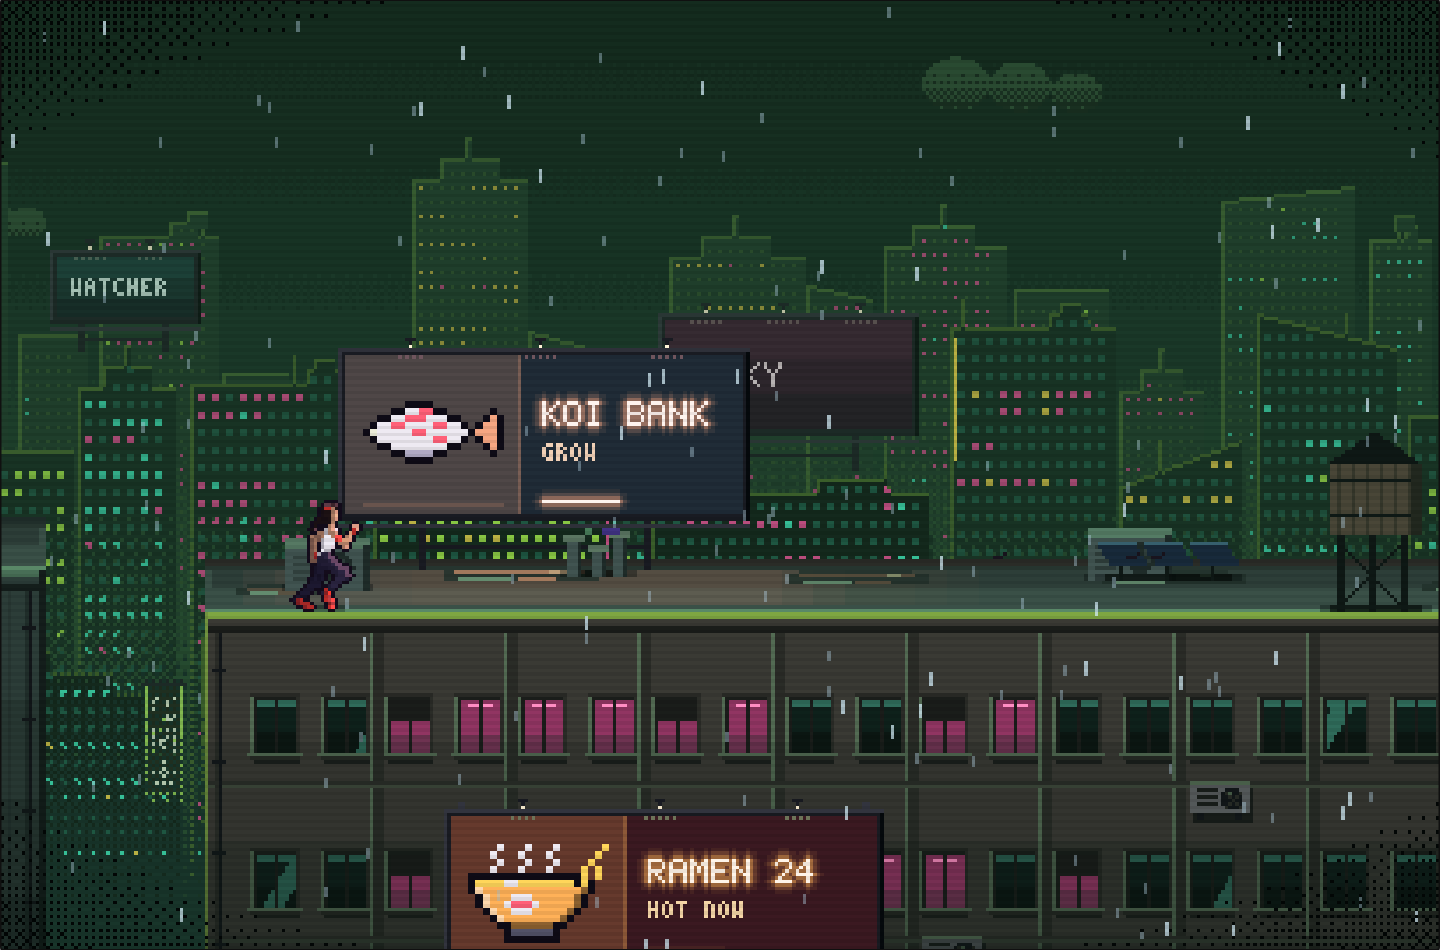
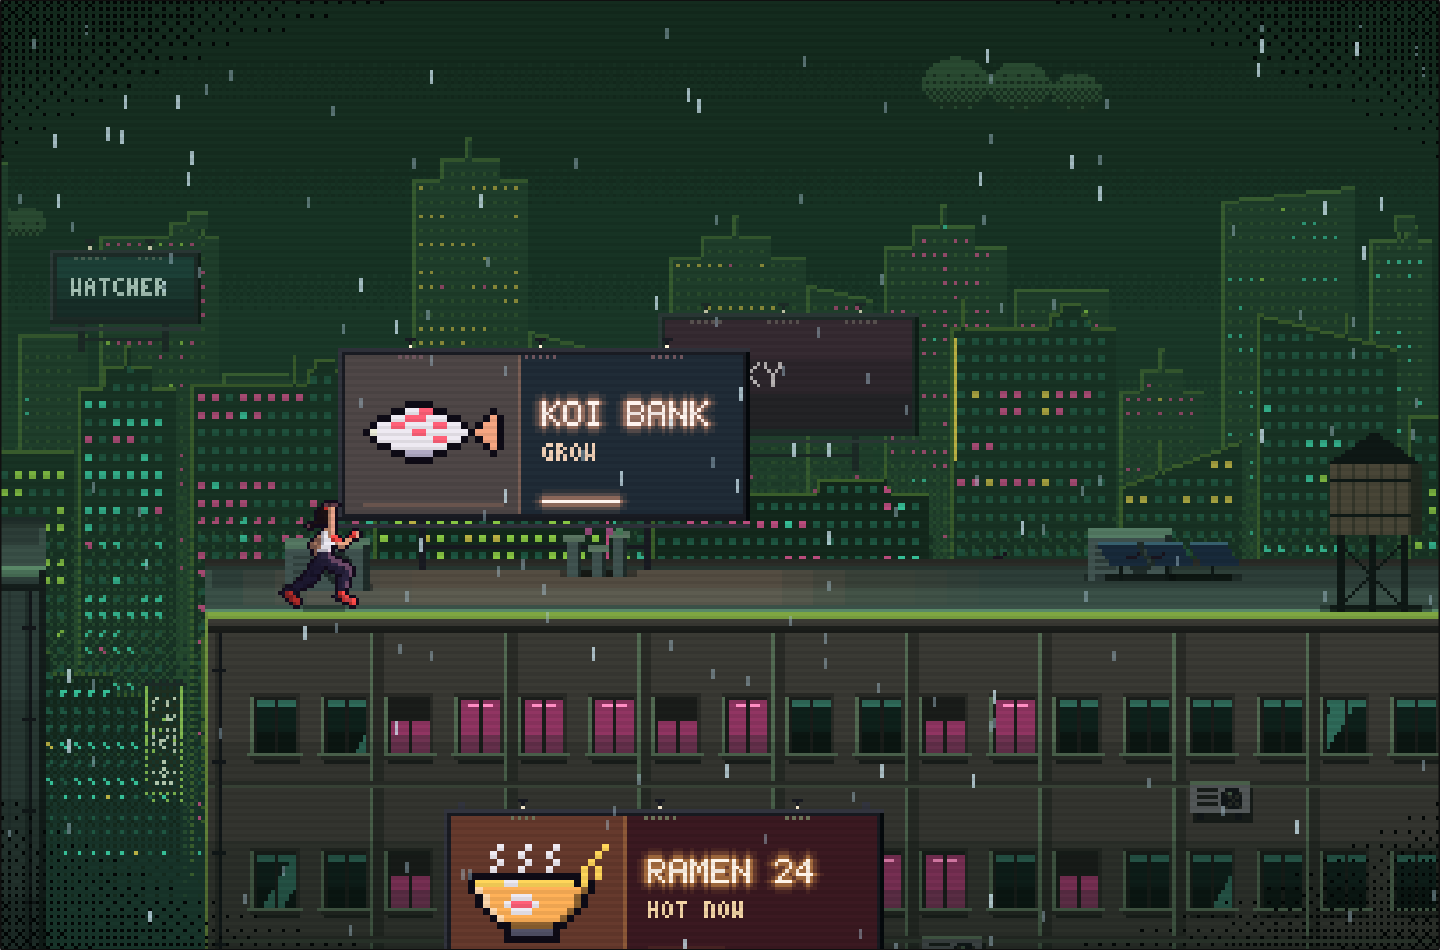
Make puddles sparse and add occasional roof rain impacts

diff --git a/src/pixel/roof.js b/src/pixel/roof.js
@@ -1,16 +1,18 @@
 // Roof lighting stays in native pixels. Stable patches follow the building,
-// while only the small rain rings move; the front edge remains unobscured.
+// with occasional falling drops and tiny impacts; the front edge stays clear.
 import { css, hash, mix } from './pixels.js'
 
 export function roofPuddles(seed, w, depth) {
   const patches = []
   if (depth < 7) return patches
-  for (let x = 9, i = 0; x < w - 14; i++) {
-    const width = Math.min(w - x - 7, 16 + Math.floor(hash(seed, i, 2) * 30))
-    if (width < 10) break
-    const h = Math.min(depth - 6, 2 + Math.floor(hash(seed, i, 4) * 2))
-    patches.push({ x, w: width, back: 3 + Math.floor(hash(seed, i, 3) * Math.max(1, depth - h - 5)), h, phase: hash(seed, i, 5) })
-    x += width + 24 + Math.floor(hash(seed, i, 6) * 32)
+  // Most roof sections stay empty; a rare patch sits away from the edges.
+  for (let i = 0; i < Math.ceil(w / 210); i++) {
+    if (hash(seed, i, 21) > 0.3) continue
+    const x = 12 + i * 210 + Math.floor(hash(seed, i, 22) * 100)
+    const width = Math.min(w - x - 12, 20 + Math.floor(hash(seed, i, 23) * 16))
+    if (width < 16) continue
+    const h = Math.min(depth - 6, 3 + Math.floor(hash(seed, i, 24) * 2))
+    patches.push({ x, w: width, back: 3 + Math.floor(hash(seed, i, 25) * Math.max(1, depth - h - 5)), h })
   }
   return patches
 }
@@ -27,31 +29,57 @@ export function drawRoofSurface(ctx, { x, y, w, depth, seed, pal, wet = 0, rain 
       ctx.fillRect(Math.round(light.x - light.w / 2 - band * 9), y - depth + 3, Math.round(light.w + band * 18), depth - 5)
     }
   }
-  if (wet > 0.05) for (const [i, q] of roofPuddles(seed, w, depth).entries()) {
+  if (wet > 0.05) for (const q of roofPuddles(seed, w, depth)) {
     const px = x + q.x, py = y - q.back - q.h
-    ctx.fillStyle = css(mix(pal.roof, pal.shadow, 0.45), wet * 0.85)
-    ctx.fillRect(px + 3, py - 1, q.w - 8, 1)
-    ctx.fillRect(px, py, q.w, q.h)
+    // Stepped rounded edges, a cool shallow body, and a short broken glint.
+    ctx.fillStyle = css(mix(pal.roof, pal.shadow, 0.25), wet * 0.75)
+    ctx.fillRect(px + 5, py, q.w - 10, 1)
+    ctx.fillRect(px + 2, py + 1, q.w - 4, Math.max(1, q.h - 2))
+    ctx.fillRect(px + 6, py + q.h - 1, q.w - 13, 1)
     const sheen = mix(pal.rim, [126, 178, 197], 0.65)
-    ctx.fillStyle = css(mix(pal.roof, sheen, 0.65), wet * 0.8)
-    ctx.fillRect(px + 4, py + q.h - 1, Math.floor(q.w * 0.35), 1)
-    ctx.fillRect(px + Math.floor(q.w * 0.7), py, Math.max(2, Math.floor(q.w * 0.12)), 1)
+    ctx.fillStyle = css(mix(pal.roof, sheen, 0.55), wet * 0.65)
+    ctx.fillRect(px + 6, py + q.h - 1, Math.floor(q.w * 0.2), 1)
+    ctx.fillRect(px + Math.floor(q.w * 0.7), py + 1, 2, 1)
     for (const light of lights) {
       const strength = Math.max(0, 1 - Math.abs(px + q.w / 2 - light.x) / (light.w / 2 + 65))
       if (!strength) continue
-      ctx.fillStyle = css(light.color, wet * strength * light.strength * pal.night * 0.65)
-      ctx.fillRect(px + 3, py, q.w - 7, 1)
-      ctx.fillRect(px + Math.floor(q.w * 0.48), py + q.h - 1, Math.floor(q.w * 0.25), 1)
-    }
-    // One short expanding ring per patch, with a quiet interval between hits.
-    const phase = (time * 0.65 + q.phase) % 1
-    if (rain > 0.15 && phase < 0.22) {
-      const r = 1 + Math.floor(phase * 12), cx = px + 5 + Math.floor(hash(seed, i, 9) * (q.w - 10))
-      ctx.fillStyle = css(pal.light, rain * 0.3 * (1 - phase / 0.22))
-      ctx.fillRect(cx - r, py + 1, 1, 1); ctx.fillRect(cx + r, py + 1, 1, 1)
+      ctx.fillStyle = css(light.color, wet * strength * light.strength * pal.night * 0.55)
+      ctx.fillRect(px + 7, py + 1, Math.floor(q.w * 0.28), 1)
+      ctx.fillRect(px + Math.floor(q.w * 0.65), py + q.h - 1, 3, 1)
     }
   }
   ctx.restore()
+  // Sparse drops reach the actual roof plane, then kick up two tiny droplets.
+  // Draw behind the equipment and runner, independently of puddle placement.
+  for (const hit of roofRainHits(seed, w, depth, time, rain)) {
+    const hx = x + hit.x, hy = y - hit.back
+    ctx.fillStyle = css(mix(pal.light, [171, 213, 229], 0.75), 0.65)
+    if (hit.t < 0.18) {
+      const fall = 1 - hit.t / 0.18
+      ctx.fillRect(Math.round(hx + fall * 3), Math.round(hy - fall * 16) - 2, 1, 3)
+    } else {
+      const t = (hit.t - 0.18) / 0.26, r = 1 + Math.floor(t * 4)
+      const lift = Math.round(Math.sin(t * Math.PI) * 2)
+      ctx.fillStyle = css(mix(pal.light, [171, 213, 229], 0.75), (1 - t) * 0.6)
+      ctx.fillRect(hx - r, hy - lift, 1, 1); ctx.fillRect(hx + r, hy - lift, 1, 1)
+      if (t < 0.3) ctx.fillRect(hx - 1, hy, 3, 1)
+    }
+  }
+
+}
+
+export function roofRainHits(seed, w, depth, time, rain) {
+  const hits = []
+  if (rain < 0.15 || depth < 7) return hits
+  for (let i = 0; i < Math.ceil(w / 180); i++) {
+    if (hash(seed, i, 32) > rain * 0.65) continue
+    const period = 4.5 + hash(seed, i, 33) * 4
+    const cycle = Math.floor(time / period + hash(seed, i, 34))
+    const t = (time / period + hash(seed, i, 34) - cycle) * period
+    const x = 10 + i * 180 + Math.floor(hash(seed, i + cycle, 35) * 140)
+    if (t < 0.44 && x < w - 10) hits.push({ x, back: 3 + Math.floor(hash(seed, i + cycle, 36) * (depth - 6)), t })
+  }
+  return hits
 }
 
 export function drawContactShadow(ctx, x, y, w, pal, depth = 3) {

diff --git a/tests/roof.test.js b/tests/roof.test.js
@@ -1,11 +1,37 @@
 import { describe, expect, it } from 'vitest'
-import { roofPuddles, drawRunnerContact, equipmentLight } from '../src/pixel/roof.js'
+import { roofPuddles, roofRainHits, drawRunnerContact, equipmentLight } from '../src/pixel/roof.js'
 import { bakeObstacle } from '../src/pixel/obstacles.js'
 import { paletteAt } from '../src/pixel/palette.js'
 import { ACCENT } from '../src/pixel/palette.js'
 import { pack } from '../src/pixel/pixels.js'
 
 describe('roof surface placement', () => {
+  it('leaves most ordinary roof sections without a puddle', () => {
+    const layouts = Array.from({ length: 100 }, (_, seed) => roofPuddles(seed, 320, 15))
+    expect(layouts.filter(q => q.length === 0).length).toBeGreaterThan(50)
+    expect(layouts.flat().length).toBeLessThan(60)
+  })
+
+  it('connects occasional falling drops to small splashes at the same roof position', () => {
+    expect(roofRainHits(5, 480, 15, 10, 0)).toEqual([])
+    let visible = 0, falling = 0, splashing = 0
+    for (let i = 0; i < 600; i++) {
+      const hits = roofRainHits(5, 480, 15, i / 10, 1)
+      expect(hits).toEqual(roofRainHits(5, 480, 15, i / 10, 1))
+      if (hits.length) visible++
+      for (const hit of hits) {
+        expect(hit.x).toBeGreaterThanOrEqual(10)
+        expect(hit.x).toBeLessThan(470)
+        expect(hit.back).toBeGreaterThanOrEqual(3)
+        expect(hit.back).toBeLessThanOrEqual(12)
+        if (hit.t < 0.18) falling++; else splashing++
+      }
+    }
+    expect(falling).toBeGreaterThan(0)
+    expect(splashing).toBeGreaterThan(0)
+    expect(visible).toBeLessThan(100)
+  })
+
   it('keeps seeded puddles inside the roof and leaves its front edge clear', () => {
     for (const depth of [8, 10, 15, 16]) for (const width of [20, 80, 320, 720]) for (let seed = 0; seed < 40; seed++) {
       const patches = roofPuddles(seed, width, depth)
